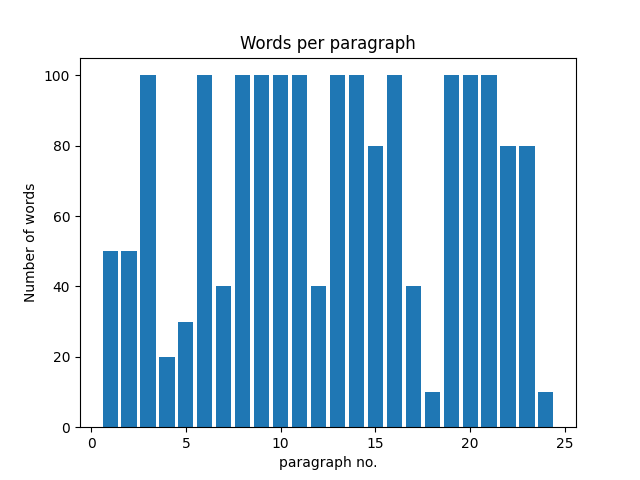
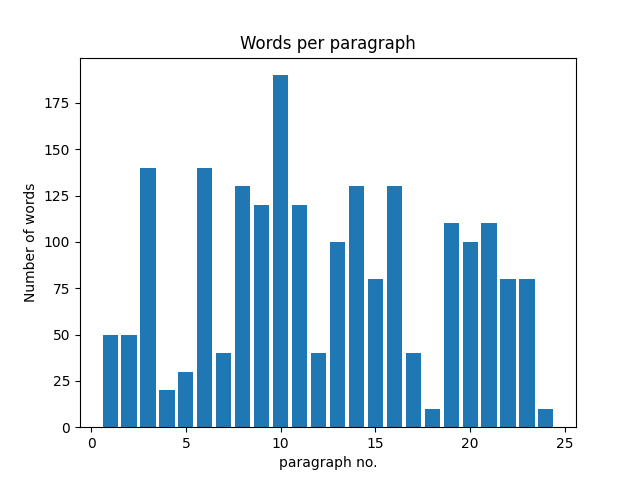
doneeeee

diff --git a/lab11/main.py b/lab11/main.py
@@ -78,10 +78,8 @@ def file_reader(new_file):
                                 word_counter = word_counter + len(line.split())
                             else:
                                 if word_counter != 0:
-                                    if word_counter >= 100:
-                                        word_counter = word_counter-word_counter % 100
-                                    if word_counter < 100:
-                                        word_counter = word_counter - word_counter % 10
+
+                                    word_counter = word_counter - word_counter % 10
                                     paragraph_length_list.append(word_counter)
                                     print(f'Paragraph {paraghraphCounter} and rounded num of words is {word_counter}')
                                     word_counter = 0
